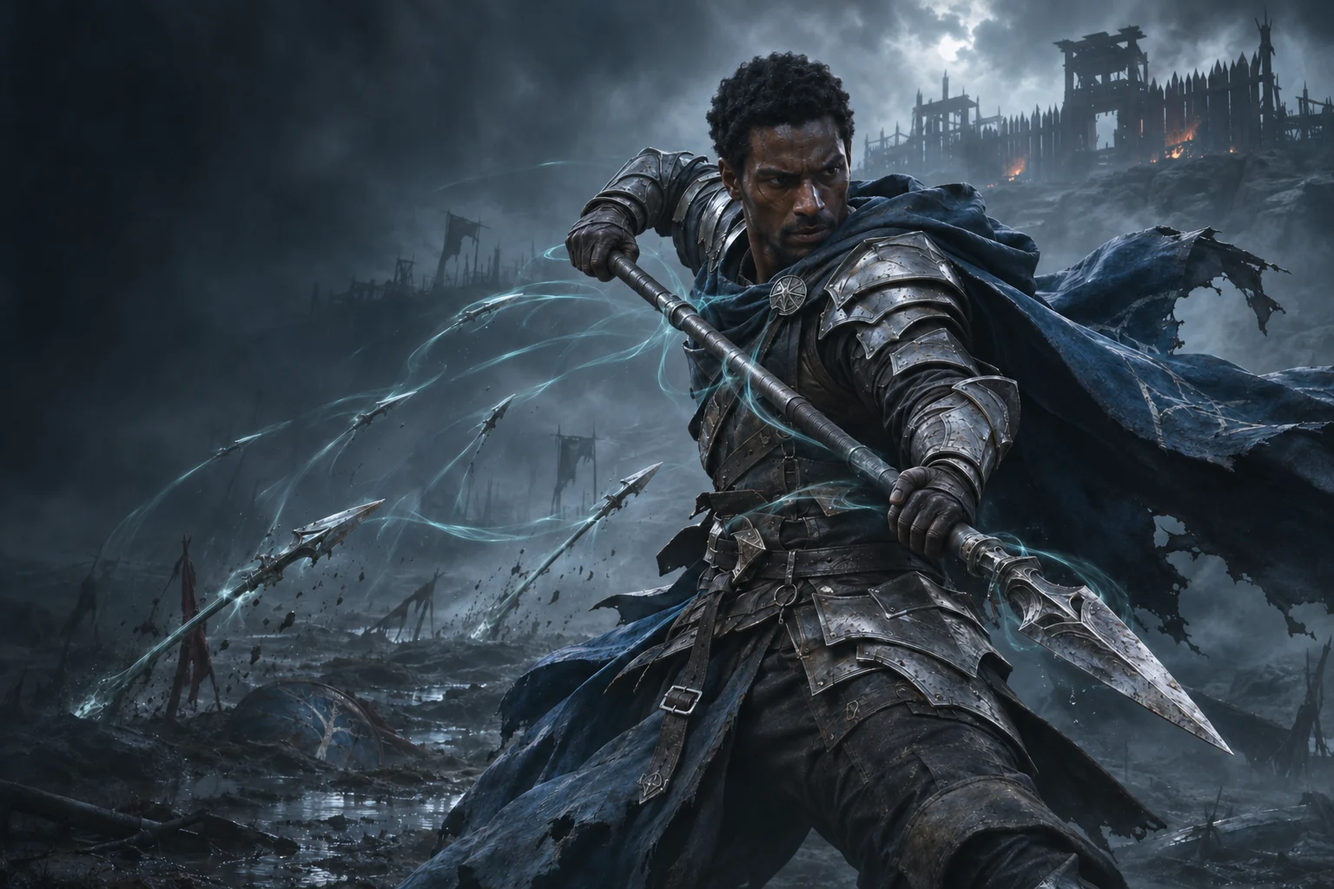
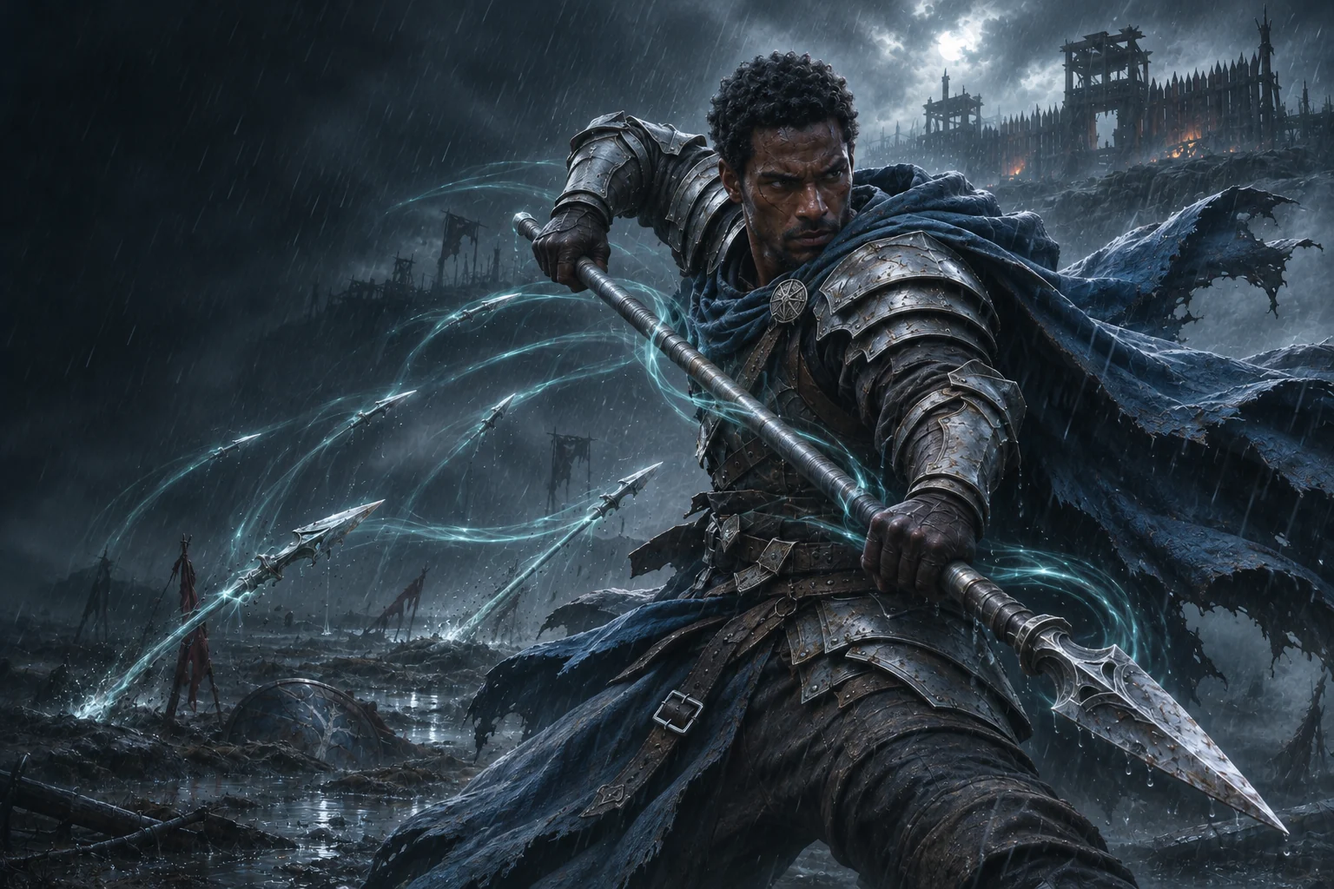
Refine class artwork and simplify the landing page

diff --git a/site/index.html b/site/index.html
@@ -15,7 +15,7 @@
   <link rel="preconnect" href="https://fonts.googleapis.com">
   <link rel="preconnect" href="https://fonts.gstatic.com" crossorigin>
   <link href="https://fonts.googleapis.com/css2?family=Cinzel:wght@500;600;700&family=Inter:wght@400;500;600;700&family=Space+Grotesk:wght@400;500;600;700&display=swap" rel="stylesheet">
-  <link rel="stylesheet" href="assets/home.css?v=hw5">
+  <link rel="stylesheet" href="assets/home.css?v=hw8">
   <script>document.documentElement.classList.add('js');</script>
   <script src="assets/cinema.js?v=cine12"></script>
 </head>
@@ -51,33 +51,32 @@
         <p class="hero-pitch">Find a skill worth building around.<br>Carry its light into a world that wants it back.</p>
         <div class="cta-row">
           <a class="btn btn-primary" href="play/">Play free in browser <span aria-hidden="true">↗</span></a>
-          <button class="btn btn-outline" type="button" data-cinema="feature"><span class="play-icon" aria-hidden="true">▷</span> Watch the trailer</button>
         </div>
         <a class="hero-download" href="#get">Also on Windows, Linux &amp; Steam Deck <span aria-hidden="true">↓</span></a>
       </div>
       <div class="hero-bottom wrap">
         <span class="availability"><i></i> Playable prototype <span class="muted">/ In development</span></span>
         <a class="discover" href="#world">Discover the wake <span aria-hidden="true">↓</span></a>
-        <span class="art-label">Hollow Wake · Key art</span>
+
       </div>
     </section>
     <div class="chapter-strip wrap" aria-label="At a glance">
-      <a href="#world"><span>01 / THE FRONTIER</span><strong>Follow the unknown</strong><b aria-hidden="true">↗</b></a>
-      <a href="#classes"><span>02 / YOUR VESSEL</span><strong>Choose your beginning</strong><b aria-hidden="true">↗</b></a>
-      <a href="#builds"><span>03 / YOUR BUILD</span><strong>Make the power yours</strong><b aria-hidden="true">↗</b></a>
+      <a href="#world"><span>THE FRONTIER</span><strong>Follow the unknown</strong><b aria-hidden="true">↗</b></a>
+      <a href="#classes"><span>YOUR VESSEL</span><strong>Choose your beginning</strong><b aria-hidden="true">↗</b></a>
+      <a href="#builds"><span>YOUR BUILD</span><strong>Make the power yours</strong><b aria-hidden="true">↗</b></a>
     </div>
     <section class="band world" id="world" data-nav="World" aria-labelledby="world-title">
       <div class="wrap">
         <div class="section-heading reveal">
-          <div><p class="kicker">01 / Beyond the last light</p><h2 id="world-title">The road ends.<br><em>Your journey doesn't.</em></h2></div>
+          <div><p class="kicker">Beyond the last light</p><h2 id="world-title">The road ends.<br><em>Your journey doesn't.</em></h2></div>
           <p class="section-intro">Leave Lastlight behind. Follow a road into rival territory, take a dangerous detour, or push deeper for the next extraordinary drop. How far you go is up to you.</p>
         </div>
         <div class="world-feature reveal">
-          <figure><div class="memory-art" data-memory-art><img src="assets/art/tide.webp" alt="A torch-bearing legion marches along an old road beneath a lightning storm" width="2560" height="1707" loading="lazy"></div><figcaption>The roads are never yours alone <span>Key art</span></figcaption></figure>
+          <figure><div class="memory-art" data-memory-art><img src="assets/art/tide.webp" alt="A torch-bearing legion marches along an old road beneath a lightning storm" width="2560" height="1707" loading="lazy"></div><figcaption>The roads are never yours alone</figcaption></figure>
           <div class="world-stories">
-            <article><span class="story-number">I</span><div><h3>Something beyond every turn</h3><p>Forests, frozen lakes, ruined labyrinths. Explore connected regions and find places worth returning to.</p></div></article>
-            <article><span class="story-number">II</span><div><h3>A frontier that fights back</h3><p>Rival factions clash over territory. Roaming threats and world events can turn a familiar road into a very different fight.</p></div></article>
-            <article><span class="story-number">III</span><div><h3>Keep a light close</h3><p>When the Gloaming falls, lamps and campfires become refuges. Decide how much farther you dare to go.</p></div></article>
+            <article><div><h3>Something beyond every turn</h3><p>Forests, frozen lakes, ruined labyrinths. Explore connected regions and find places worth returning to.</p></div></article>
+            <article><div><h3>A frontier that fights back</h3><p>Rival factions clash over territory. Roaming threats and world events can turn a familiar road into a very different fight.</p></div></article>
+            <article><div><h3>Keep a light close</h3><p>When the Gloaming falls, lamps and campfires become refuges. Decide how much farther you dare to go.</p></div></article>
           </div>
         </div>
         <details class="field-guide reveal"><summary><span>Open the field guide</span><span class="muted">Places &amp; encounters</span><b aria-hidden="true">+</b></summary>
@@ -87,22 +86,22 @@
     </section>
     <section class="band classes" id="classes" data-nav="Classes" aria-labelledby="classes-title">
       <div class="wrap">
-        <div class="section-heading reveal"><div><p class="kicker">02 / A vessel for your ambition</p><h2 id="classes-title">Who will you<br><em>become this time?</em></h2></div><p class="section-intro">Your class is a beginning. Build on its strengths, borrow from a shared pool of skills, or let an unexpected drop change everything.</p></div>
+        <div class="section-heading reveal"><div><p class="kicker">A vessel for your ambition</p><h2 id="classes-title">Who will you<br><em>become this time?</em></h2></div><p class="section-intro">Your class is a beginning. Build on its strengths, borrow from a shared pool of skills, or let an unexpected drop change everything.</p></div>
         <div class="class-stage reveal" data-class-stage>
           <div class="class-tabs" role="tablist" aria-label="Featured classes">
-            <button id="class-tab-berserker" type="button" role="tab" aria-selected="true" aria-controls="class-berserker" data-class="berserker"><span>01</span> <strong class="class-name">Berserker</strong> <b aria-hidden="true">↗</b></button>
-            <button id="class-tab-sorcerer" type="button" role="tab" aria-selected="false" aria-controls="class-sorcerer" tabindex="-1" data-class="sorcerer"><span>02</span> <strong class="class-name">Sorcerer</strong> <b aria-hidden="true">↗</b></button>
-            <button id="class-tab-necromancer" type="button" role="tab" aria-selected="false" aria-controls="class-necromancer" tabindex="-1" data-class="necromancer"><span>03</span> <strong class="class-name">Necromancer</strong> <b aria-hidden="true">↗</b></button>
+            <button id="class-tab-berserker" type="button" role="tab" aria-selected="true" aria-controls="class-berserker" data-class="berserker"><strong class="class-name">Berserker</strong> <b aria-hidden="true">↗</b></button>
+            <button id="class-tab-sorcerer" type="button" role="tab" aria-selected="false" aria-controls="class-sorcerer" tabindex="-1" data-class="sorcerer"><strong class="class-name">Sorcerer</strong> <b aria-hidden="true">↗</b></button>
+            <button id="class-tab-necromancer" type="button" role="tab" aria-selected="false" aria-controls="class-necromancer" tabindex="-1" data-class="necromancer"><strong class="class-name">Necromancer</strong> <b aria-hidden="true">↗</b></button>
           </div>
           <div class="class-art memory-art" data-memory-art aria-hidden="true"><img src="assets/art/berserker.webp" alt="" width="2560" height="1707" loading="lazy"></div>
           <div class="class-panel" id="class-berserker" role="tabpanel" aria-labelledby="class-tab-berserker" tabindex="0">
-            <div class="class-copy"><p class="kicker">Steel / Fury / Momentum</p><h3>Berserker</h3><p data-class-description="berserker">Trade safety for fury. Build momentum with heavy strikes, then tear through the fight in a whirlwind of steel.</p><a class="text-link" href="database/?type=class&amp;id=berserker">Explore this class <span aria-hidden="true">↗</span></a></div><span class="class-art-label">Hollow Wake · Key art</span>
+            <div class="class-copy"><p class="kicker">Steel / Fury / Momentum</p><h3>Berserker</h3><p data-class-description="berserker">Trade safety for fury. Build momentum with heavy strikes, then tear through the fight in a whirlwind of steel.</p><a class="text-link" href="database/?type=class&amp;id=berserker">Explore this class <span aria-hidden="true">↗</span></a></div>
           </div>
           <div class="class-panel" id="class-sorcerer" role="tabpanel" aria-labelledby="class-tab-sorcerer" tabindex="0" hidden>
-            <div class="class-copy"><p class="kicker">Flame / Storm / Ruin</p><h3>Sorcerer</h3><p data-class-description="sorcerer">Turn destructive elements into your answer to an approaching horde. Find the spell that makes the whole battlefield yours.</p><a class="text-link" href="database/?type=class&amp;id=sorcerer">Explore this class <span aria-hidden="true">↗</span></a></div><span class="class-art-label">Hollow Wake · Key art</span>
+            <div class="class-copy"><p class="kicker">Flame / Storm / Ruin</p><h3>Sorcerer</h3><p data-class-description="sorcerer">Turn destructive elements into your answer to an approaching horde. Find the spell that makes the whole battlefield yours.</p><a class="text-link" href="database/?type=class&amp;id=sorcerer">Explore this class <span aria-hidden="true">↗</span></a></div>
           </div>
           <div class="class-panel" id="class-necromancer" role="tabpanel" aria-labelledby="class-tab-necromancer" tabindex="0" hidden>
-            <div class="class-copy"><p class="kicker">Bone / Binding / Dominion</p><h3>Necromancer</h3><p data-class-description="necromancer">Call the dead to your side. Shape an army from bone and dark magic, and let your followers carry the fight.</p><a class="text-link" href="database/?type=class&amp;id=necromancer">Explore this class <span aria-hidden="true">↗</span></a></div><span class="class-art-label">Hollow Wake · Key art</span>
+            <div class="class-copy"><p class="kicker">Bone / Binding / Dominion</p><h3>Necromancer</h3><p data-class-description="necromancer">Call the dead to your side. Shape an army from bone and dark magic, and let your followers carry the fight.</p><a class="text-link" href="database/?type=class&amp;id=necromancer">Explore this class <span aria-hidden="true">↗</span></a></div>
           </div>
         </div>
         <div class="section-foot"><button class="class-shuffle text-link" type="button" data-class-shuffle hidden><span aria-hidden="true">↻</span> Discover other lives</button><span class="sr-only" role="status" data-class-status></span><a class="text-link" href="database/?type=class">Discover all classes <span aria-hidden="true">↗</span></a></div>
@@ -111,16 +110,16 @@
     </section>
     <section class="band builds" id="builds" data-nav="Builds" aria-labelledby="builds-title">
       <div class="wrap">
-        <div class="section-heading reveal"><div><p class="kicker">03 / The next drop changes everything</p><h2 id="builds-title">Find your obsession.<br><em>Build around it.</em></h2></div><p class="section-intro">A skill gem is only the start. Change how it behaves with supports, follow its branching upgrades, and chase the unique that brings your idea to life.</p></div>
-        <div class="build-flow reveal"><div><span>01</span><h3>Find a skill</h3><p>A new way to fight.</p></div><i aria-hidden="true">→</i><div><span>02</span><h3>Change the rules</h3><p>Supports reshape its behavior.</p></div><i aria-hidden="true">→</i><div><span>03</span><h3>Make it a build</h3><p>Passives and loot bring it together.</p></div></div>
+        <div class="section-heading reveal"><div><p class="kicker">The next drop changes everything</p><h2 id="builds-title">Find your obsession.<br><em>Build around it.</em></h2></div><p class="section-intro">A skill gem is only the start. Change how it behaves with supports, follow its branching upgrades, and chase the unique that brings your idea to life.</p></div>
+        <div class="build-flow reveal"><div><h3>Find a skill</h3><p>A new way to fight.</p></div><i aria-hidden="true">→</i><div><h3>Change the rules</h3><p>Supports reshape its behavior.</p></div><i aria-hidden="true">→</i><div><h3>Make it a build</h3><p>Passives and loot bring it together.</p></div></div>
         <div class="collection reveal"><div class="collection-heading"><div><span class="collection-dot"></span> The collection</div><a href="database/">Open the database <span aria-hidden="true">↗</span></a></div><div data-showcase><p class="fallback-note">Explore skills, supports, and uniques in the <a href="database/">database</a>.</p></div></div>
         <div class="planner-link reveal"><div><p class="kicker">Every point is a possibility</p><h3>Your next build starts with a path.</h3><p>Trace a route through the passive tree. See your bonuses. Share the plan.</p></div><a class="btn btn-outline" href="tree/">Open the build planner <span aria-hidden="true">↗</span></a></div>
       </div>
     </section>
     <section class="band legacy" id="legacy" data-nav="Legacy" aria-labelledby="legacy-title">
       <div class="wrap legacy-layout">
-        <figure class="legacy-art reveal"><div class="memory-art" data-memory-art><img src="assets/art/wake.webp" width="2560" height="1707" alt="A fallen traveler's eyes rekindle with pale light" loading="lazy"></div><figcaption>The wake <span>Key art</span></figcaption></figure>
-        <div class="legacy-copy reveal"><p class="kicker">04 / What you leave behind</p><h2 id="legacy-title">A life can end.<br><em>A legacy carries on.</em></h2><p>One life makes every decision matter. As a Mortal, your fall ends the run, but part of your earned essence becomes account progress. Your next vessel begins with a little more behind it.</p><p>Return for what you lost. Unlock new possibilities. Or, in time, accept the Immortal covenant and face death on different terms.</p><div class="companion-note"><span aria-hidden="true">◇</span><div><h3>You don't have to go alone.</h3><p>Recruit a mercenary, bring a friend online, or share the screen in couch co-op.</p></div></div></div>
+        <figure class="legacy-art reveal"><div class="memory-art" data-memory-art><img src="assets/art/wake.webp" width="2560" height="1707" alt="A fallen traveler's eyes rekindle with pale light" loading="lazy"></div><figcaption>The wake</figcaption></figure>
+        <div class="legacy-copy reveal"><p class="kicker">What you leave behind</p><h2 id="legacy-title">A life can end.<br><em>A legacy carries on.</em></h2><p>One life makes every decision matter. As a Mortal, your fall ends the run, but part of your earned essence becomes account progress. Your next vessel begins with a little more behind it.</p><p>Return for what you lost. Unlock new possibilities. Or, in time, accept the Immortal covenant and face death on different terms.</p><div class="companion-note"><span aria-hidden="true">◇</span><div><h3>You don't have to go alone.</h3><p>Recruit a mercenary, bring a friend online, or share the screen in couch co-op.</p></div></div></div>
       </div>
     </section>
     <section class="band get" id="get" data-nav="Play" aria-labelledby="play-title">
@@ -135,7 +134,7 @@
 </div>
 <script src="assets/home-atmosphere.js?v=hw3"></script>
 <script src="assets/memory-art.js?v=hw6"></script>
-<script type="module" src="assets/home.js?v=hw7"></script>
+<script type="module" src="assets/home.js?v=hw8"></script>
 <script src="assets/showcase.js?v=hw3"></script>
 <script src="assets/guide-copy.js"></script>
 <script src="assets/decks.js"></script>

diff --git a/site/assets/home.css b/site/assets/home.css
@@ -78,7 +78,6 @@ h3{font-weight:500;line-height:1.35}
 .availability i,.collection-dot{display:inline-block;width:5px;height:5px;background:var(--teal);border-radius:50%;box-shadow:0 0 12px #4fd6c450}
 .discover{color:var(--gold);display:flex;align-items:center;gap:15px}
 .discover span{font-size:20px}
-.art-label{color:var(--ink-faint)}
 .chapter-strip{display:grid;grid-template-columns:repeat(3,1fr)}
 .chapter-strip a{position:relative;padding:26px 26px 28px;border-block:1px solid var(--line);border-right:1px solid var(--line);transition:background .2s}
 .chapter-strip a:first-child{padding-left:0}
@@ -97,12 +96,10 @@ figure{position:relative;overflow:hidden}
 .world-feature .memory-art{position:absolute;inset:-12px}
 .world-feature figure img{width:100%;height:100%;object-fit:cover;object-position:45% 50%}
 figcaption{position:absolute;inset:auto 0 0;display:flex;justify-content:space-between;padding:35px 22px 17px;font:11px var(--font-head);letter-spacing:.04em;color:#d9dedc;z-index:1}
-figcaption span{color:#a2b2b9;font-size:9px;text-transform:uppercase;letter-spacing:.16em}
 .world-stories{display:flex;flex-direction:column;justify-content:center}
 .world-stories article{display:flex;gap:22px;padding:25px 0;border-bottom:1px solid var(--line)}
 .world-stories article:first-child{padding-top:0}
 .world-stories article:last-child{border-bottom:0;padding-bottom:0}
-.story-number{font:15px var(--font-display);color:var(--gold);min-width:25px;margin-top:4px}
 .world-stories h3{font-family:var(--font-head);font-size:18px;margin-bottom:10px}
 .world-stories p{font-size:14px;color:var(--ink-dim);line-height:1.85}
 .field-guide{margin-top:28px;border-block:1px solid var(--line)}
@@ -121,7 +118,6 @@ figcaption span{color:#a2b2b9;font-size:9px;text-transform:uppercase;letter-spac
 .class-shuffle>span{font-size:21px;line-height:1}
 .class-tabs button{min-height:68px;background:transparent;border:0;border-right:1px solid var(--line);padding:17px 25px;text-align:left;font:15px var(--font-display);transition:background .2s;position:relative}
 .class-tabs button:last-child{border-right:0}
-.class-tabs button span{font:10px var(--font-head);color:var(--ink-faint);margin-right:17px}
 .class-tabs button b{float:right;font:17px var(--font-head);color:var(--ink-faint)}
 .class-tabs button[aria-selected=true]{background:#d6bd8912;color:var(--gold)}
 .class-tabs button[aria-selected=true]::after{content:'';position:absolute;inset:auto 0 0;height:2px;background:var(--gold)}
@@ -135,14 +131,18 @@ figcaption span{color:#a2b2b9;font-size:9px;text-transform:uppercase;letter-spac
 .class-copy h3{font:38px var(--font-display);margin:15px 0 18px}
 .class-copy>p:not(.kicker){font-size:14px;line-height:1.8;color:#c7d0d2}
 .class-copy .text-link{margin-top:27px}
-.class-art-label{position:absolute;bottom:20px;right:24px;z-index:1;color:#c1ced2;font-size:9px;text-transform:uppercase;letter-spacing:.14em}
+/* Keep the painting near its native 3:2 proportions on wide screens, so the
+   character's stance remains visible rather than enlarging a shallow crop. */
+@media(min-width:1000px){
+  .class-panel{min-height:600px;align-items:center}
+  .class-art{left:auto;width:min(calc(100% + 56px),960px)}
+}
 .text-link{display:inline-flex;align-items:center;gap:20px;color:var(--gold);font-size:12px;line-height:1.6}
 .text-link:hover{color:#fff0d1}
 .section-foot{display:flex;justify-content:space-between;align-items:center;gap:20px;padding-top:22px;font-size:11px;color:var(--ink-faint)}
 .builds{padding-top:30px}
 .build-flow{display:grid;grid-template-columns:1fr auto 1fr auto 1fr;gap:35px;padding:12px 0 42px}
-.build-flow>div{position:relative;padding-left:37px}
-.build-flow div>span{position:absolute;left:0;top:3px;color:var(--gold);font:11px var(--font-head)}
+.build-flow>div{position:relative}
 .build-flow h3{font:17px var(--font-head);margin-bottom:6px}
 .build-flow p{font-size:12px;color:var(--ink-faint)}
 .build-flow i{color:#7c898a;font-style:normal;align-self:center}
@@ -233,9 +233,9 @@ body .hwdot.active:not(:hover) .hwdot-label{opacity:0}
   .world-feature{grid-template-columns:1fr;gap:30px}.world-feature figure{min-height:0;aspect-ratio:1.5}.world-stories article{padding-block:22px}
   .classes,.builds,.legacy{padding-top:15px}.class-panel{padding:30px 20px;min-height:470px;align-items:flex-end}.class-art{inset:50px -20px -16px}.class-art img{object-position:62% 35%}.class-art::after{background:linear-gradient(0deg,#090d10e8,#090d1070 40%,#090d1000 85%)}
   .class-copy{max-width:350px}.class-copy h3{font-size:31px}.class-copy>p:not(.kicker){font-size:13px}.class-copy .kicker{font-size:9px}.class-copy .text-link{margin-top:20px}
-  .class-tabs button{padding:17px 10px;text-align:center;font-size:11px;min-height:54px}.class-tabs button span,.class-tabs button b{display:none}.class-art-label{top:17px;bottom:auto;right:17px;font-size:8px}
+  .class-tabs button{padding:17px 10px;text-align:center;font-size:11px;min-height:54px}.class-tabs button b{display:none}
   .section-foot{font-size:10px;align-items:flex-start}.section-foot>span{max-width:160px}.text-link{font-size:11px;gap:12px}
-  .build-flow{grid-template-columns:1fr;gap:24px;padding-bottom:32px}.build-flow i{display:none}.build-flow>div{padding-left:38px}
+  .build-flow{grid-template-columns:1fr;gap:24px;padding-bottom:32px}.build-flow i{display:none}
   .collection-heading{padding:19px 18px;font-size:10px}.collection-heading a{font-size:10px}.collection .hwsc{padding:20px 18px}
   .collection .hwsc-rack{grid-template-columns:repeat(2,minmax(0,1fr));gap:8px}.collection .hwsc-chip{font-size:11px;padding:10px;min-height:48px}.collection .hwsc-tab{padding:8px 12px;font-size:11px}.collection .hwsc-shuffle{font-size:10px;padding:8px 10px}
   .planner-link{align-items:flex-start;flex-direction:column;padding-block:30px;gap:22px}.planner-link h3{font-size:21px}

diff --git a/site/assets/class-art.js b/site/assets/class-art.js
@@ -2,7 +2,7 @@
 export const CLASS_ART = Object.freeze({
   apothecary: {"src":"assets/art/classes/apothecary.webp","alt":"An Apothecary releases venom and luminous spores from field alchemy","position":"65% 0%"},
   ascetic: {"src":"assets/art/classes/ascetic.webp","alt":"An Ascetic parts the rain with a measured open-palm strike","position":"65% 0%"},
-  assassin: {"src":"assets/art/classes/assassin.webp?v=2","alt":"An Assassin emerges from shadow with twin daggers","position":"87% 0%"},
+  assassin: {"src":"assets/art/classes/assassin.webp?v=3","alt":"An Assassin emerges from shadow with twin daggers","position":"87% 0%"},
   beguiler: {"src":"assets/art/classes/beguiler.webp","alt":"A Beguiler slips between two spectral doubles","position":"65% 0%"},
   berserker: {"src":"assets/art/berserker.webp","alt":"Berserker charging into battle with two axes"},
   blademaster: {"src":"assets/art/classes/blademaster.webp","alt":"A Blademaster completes a precise draw-cut in the rain","position":"65% 0%"},
@@ -17,11 +17,11 @@ export const CLASS_ART = Object.freeze({
   guardian: {"src":"assets/art/classes/guardian.webp","alt":"A Guardian holds a tower shield beneath a pale protective ward","position":"65% 0%"},
   hivecaller: {"src":"assets/art/classes/hivecaller.webp","alt":"A Hivecaller directs a ribbon of biting motes from a living hive","position":"65% 0%"},
   juggernaut: {"src":"assets/art/classes/juggernaut.webp","alt":"A Juggernaut drives an armored fist into cracking stone","position":"65% 0%"},
-  lancer: {"src":"assets/art/classes/lancer.webp?v=2","alt":"A Lancer recalls a harvest of spears through the battlefield","position":"65% 0%"},
+  lancer: {"src":"assets/art/classes/lancer.webp?v=3","alt":"A Lancer recalls a harvest of spears through the battlefield","position":"65% 0%"},
   magician: {"src":"assets/art/classes/magician.webp","alt":"A Magician shapes fire, frost and lightning inside a ruined observatory","position":"65% 0%"},
   matador: {"src":"assets/art/classes/matador.webp","alt":"A Matador turns a charging beast with a crimson cape","position":"65% 0%"},
-  necromancer: {"src":"assets/art/classes/necromancer.webp","alt":"A raven-haired Necromancer commands skeletal retainers on rain-wet mausoleum steps","position":"65% 0%"},
-  pyromancer: {"src":"assets/art/classes/pyromancer.webp","alt":"A Pyromancer summons a pillar of flame in a ruined courtyard","position":"65% 0%"},
+  necromancer: {"src":"assets/art/classes/necromancer.webp?v=3","alt":"A raven-haired Necromancer commands skeletal retainers on rain-wet mausoleum steps","position":"65% 0%"},
+  pyromancer: {"src":"assets/art/classes/pyromancer.webp?v=2","alt":"A copper-haired Pyromancer gathers flame between her hands in a rain-wet courtyard","position":"87% 0%"},
   ranger: {"src":"assets/art/classes/ranger.webp","alt":"A hooded Ranger draws a longbow on a rain-soaked woodland bridge","position":"65% 0%"},
   resonator: {"src":"assets/art/classes/resonator.webp","alt":"A Resonator sends silver-blue pressure rings from a forked staff","position":"65% 0%"},
   rogue: {"src":"assets/art/classes/rogue.webp","alt":"A hooded Rogue steps silently from shadow with a curved dagger","position":"65% 0%"},
@@ -30,7 +30,7 @@ export const CLASS_ART = Object.freeze({
   sharper: {"src":"assets/art/classes/sharper.webp","alt":"A Sharper throws a fan of razor-edged cards through the mist","position":"65% 0%"},
   skald: {"src":"assets/art/classes/skald.webp","alt":"A Skald sends a war-song rippling through the rain","position":"65% 0%"},
   sorcerer: {"src":"assets/art/classes/sorcerer.webp","alt":"A storm Sorcerer gathers lightning above her open palm on a ruined fortress terrace","position":"65% 0%"},
-  spellblade: {"src":"assets/art/classes/spellblade.webp?v=2","alt":"A Spellblade cuts through rain with lightning-banked steel and a flame lash","position":"65% 0%"},
+  spellblade: {"src":"assets/art/classes/spellblade.webp?v=3","alt":"A Spellblade holds a lightning-charged sword upright while conjuring flame","position":"87% 0%"},
   summoner: {"src":"assets/art/classes/summoner.webp","alt":"A Summoner binds a single twilight familiar on ruined steps","position":"87% 0%"},
   swashbuckler: {"src":"assets/art/classes/swashbuckler.webp?v=2","alt":"A Swashbuckler lunges with saber and buckler across a wet harbor","position":"87% 0%"},
   tamer: {"src":"assets/art/classes/tamer.webp","alt":"A Tamer stands beside a bonded grey wolf in a misty forest","position":"87% 0%"},

diff --git a/site/assets/home.js b/site/assets/home.js
@@ -1,12 +1,8 @@
 /* Landing-page controls. Atmosphere and the cinema retain their own owners. */
 import { createClassDeck } from './class-deck.js';
-import { getClassArtwork } from './class-art.js?v=hw7';
+import { getClassArtwork } from './class-art.js?v=hw8';
 (function () {
   'use strict';
-  // The explicit trailer button follows the same scheduled feature as the logo.
-  document.querySelectorAll('[data-cinema="feature"]').forEach(function (button) {
-    if (window.HWCinema) button.setAttribute('data-cinema', window.HWCinema.feature());
-  });
   var tabs = Array.from(document.querySelectorAll('[data-class]'));
   var artwork = document.querySelector('.class-art img');
   function setArtwork(id) {

diff --git a/docs/design/site-presentation.md b/docs/design/site-presentation.md
@@ -15,7 +15,7 @@ destinations and relative paths work under `/arpg-game-world/`.
   never contains duplicates, even across a cycle boundary. Names, primary
   attributes, descriptions and database links travel together. The authored
   three-class introduction remains usable if the export cannot load.
-  This module also binds version metadata and the visible trailer button.
+  This module also binds version metadata.
 - `assets/memory-art.js`: transparent, slowly drifting image rims adapted
   from the cinema's own domain-warped smoke. Four reusable canvases cover the
   hero, frontier, active class and legacy art. Rendering pauses offscreen and
@@ -40,7 +40,8 @@ destinations and relative paths work under `/arpg-game-world/`.
 The original `cinema.js`, `cinema-theater.js`, `abyss.js`, `decks.js`, and
 `sectionnav.js` retain their responsibilities. The field guide uses the
 existing biome/event decks inside a native disclosure. The trailer continues
-to open on first/weekly arrival and from either the logo or explicit button.
+to open on first/weekly arrival and from the interactive logo. There is no
+separate trailer call-to-action; clicking the logo rewards exploration.
 
 ## Artwork and content
 
@@ -50,14 +51,19 @@ give every other class its own scene, including matching replacement portraits
 for Necromancer and Sorcerer. All are
 illustrative key art, not gameplay screenshots. Each folder records provenance;
 `docs/design/class-art-prompts.json` preserves the initial generation prompts,
-and `docs/design/class-art-revisions.json` records anatomy edits and the two
-replacement caster portraits. Revised image URLs include a cache version.
+and `docs/design/class-art-revisions.json` records anatomy edits, replacement
+caster portraits, and owner-selected fresh pose variations. The Necromancer
+uses her first generated replacement, preserving its original hand perspective.
+Revised image URLs include a cache version.
 `assets/class-art.js` maps class IDs to paintings, alternative text and optional
 crop positions for companions. New classes without authored art use a frontier
 scene until their painting is added. The coverage test flags missing portraits.
 Only the active class image loads; the full roster is never preloaded. The
 single class canvas keeps the existing smoke effect and rendering limits.
-Its narrower feather keeps faces and companions readable in the shallow frame.
+Its narrower feather keeps faces and companions readable. At desktop widths
+of at least 1000 px, the class panel is at least 600 px tall and the painting
+is capped at 960 px wide, close to its native 3:2 proportions. This shows more
+of the character's stance instead of enlarging a shallow upper-body crop.
 Only the hero image is eager-loaded; other paintings load lazily. No runtime
 dependency, remote image service, or video download was introduced.
 
@@ -66,6 +72,8 @@ collection → legacy → play/download. Detailed biome/event facts remain
 available in the field guide, while the database, passive planner, and
 Systems page retain their full tools. Class text and version come from the
 CI-generated JSON; do not hand-edit or commit those generated exports.
+Chapter headings, class tabs and build steps omit decorative numbering.
+Scene captions remain, but no image carries a "Hollow Wake / Key art" label.
 
 ## Verification
 

diff --git a/site/assets/art/classes/README.md b/site/assets/art/classes/README.md
@@ -14,14 +14,16 @@ third for copy, and a distinct character, weapon, spell or companion.
 Full prompts and original output filenames are preserved in
 `docs/design/class-art-prompts.json`. Targeted hand and grip corrections for
 Cryomancer, Swashbuckler, Firebrand, Spellblade, Assassin and Lancer, and
-the replacement Necromancer and Sorcerer prompts, are recorded in
+the replacement Necromancer and Sorcerer prompts, plus owner-selected fresh
+Spellblade, Assassin, Lancer and Pyromancer variations, are recorded in
 `docs/design/class-art-revisions.json`. The generation tool did not expose
-an underlying model version; none is inferred here.
+an underlying model version; none is inferred here. The Necromancer uses her
+first generated replacement, before the later hand edit.
 
 Original 1536 x 1024 PNGs are retained in the owner's generated-image
 library. Website files are WebP conversions at quality 86 and compression
 level 6, with no cropping, compositing or upscaling. The 38 web images total
-7,304,662 bytes (about 7.3 MB). Only the selected image loads in the showcase.
+7,460,908 bytes (about 7.5 MB). Only the selected image loads in the showcase.
 
 `site/assets/class-art.js` owns class-to-image mapping, descriptive alt text,
 and optional crop positions. The existing memory-art renderer owns the
